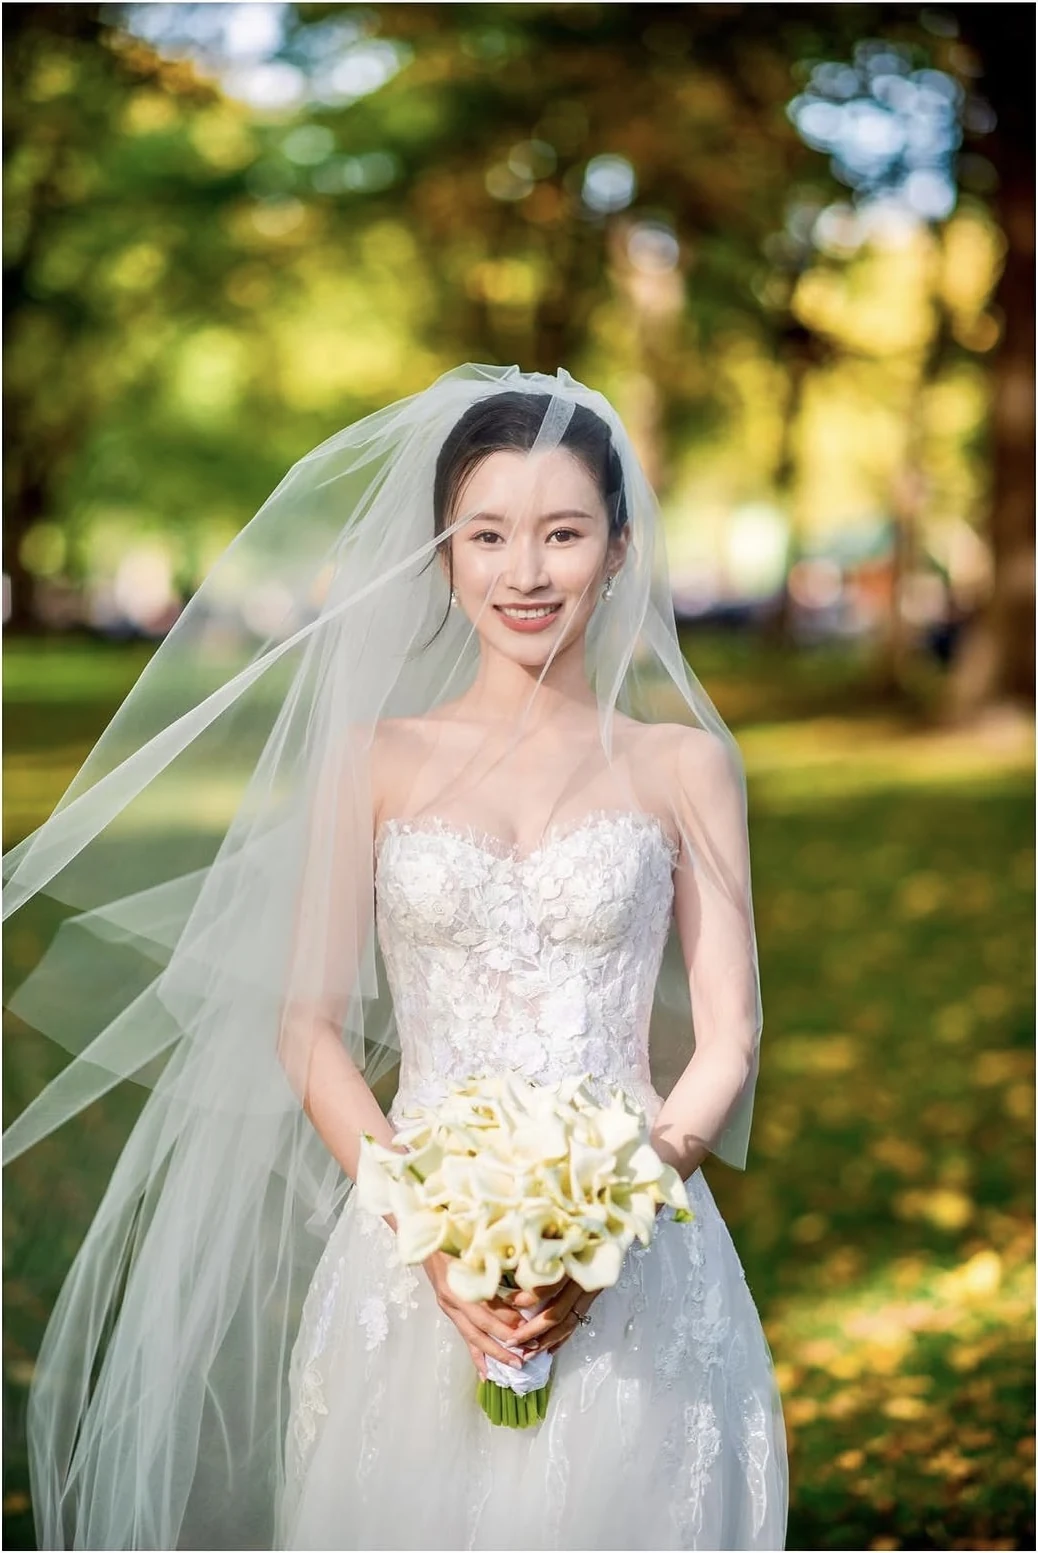
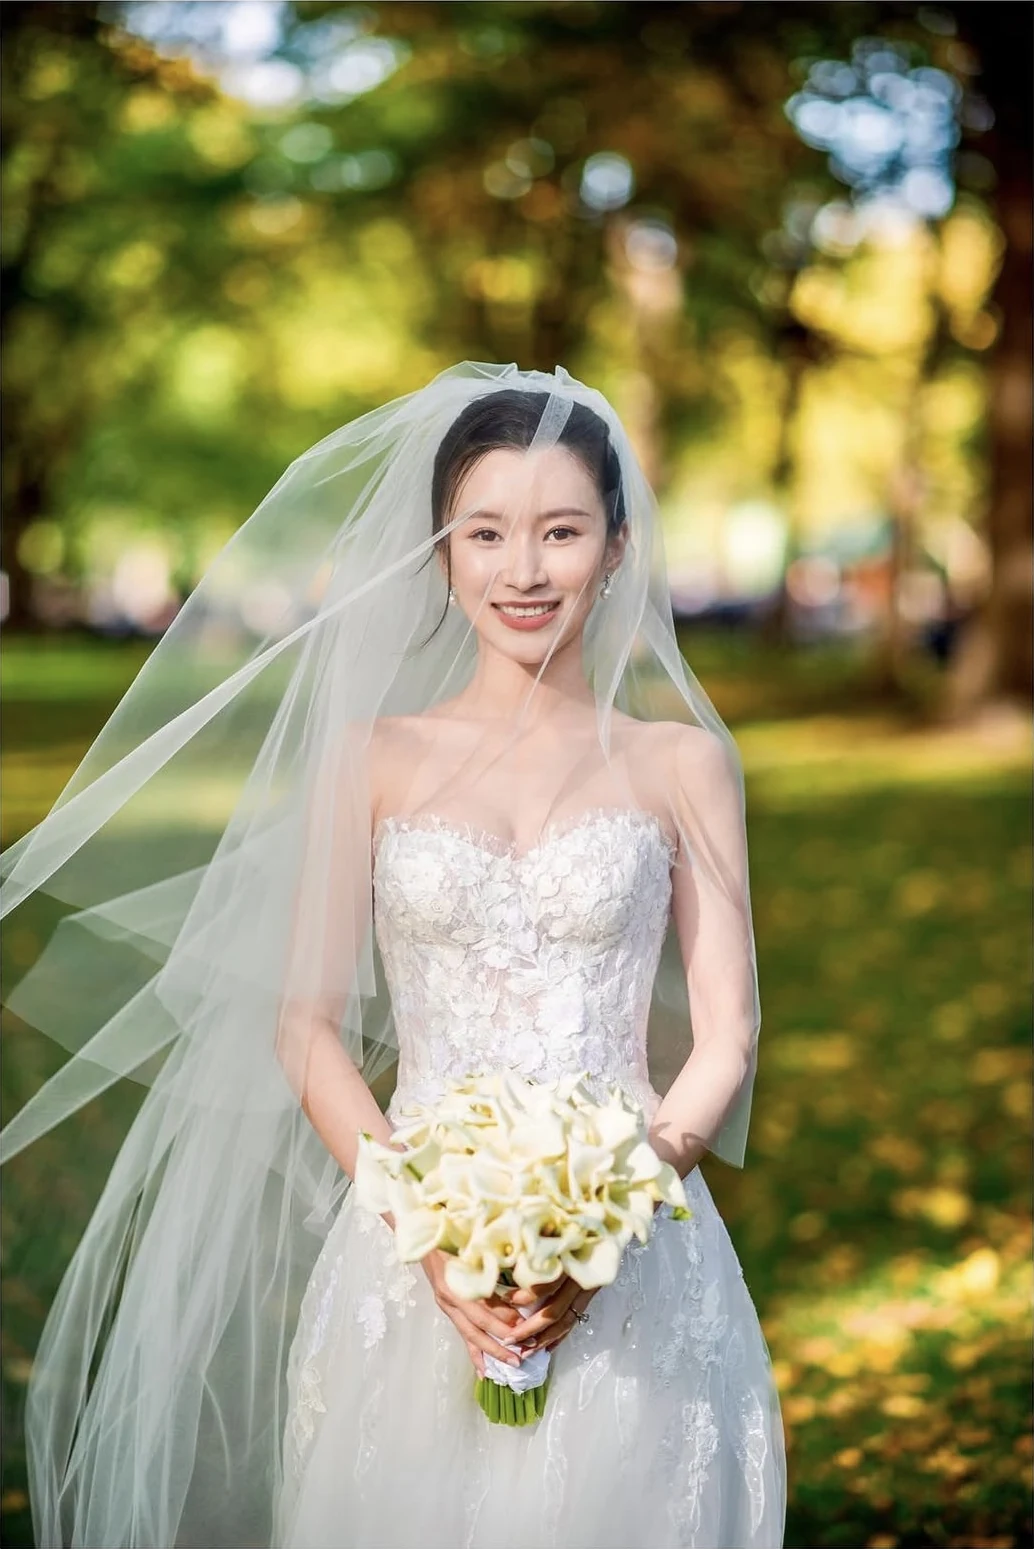
Remove white edge from After Dark hero image

diff --git a/index.html b/index.html
@@ -320,7 +320,7 @@
       </div>
     </div>
     <div>
-      <div class="photo arch-top"><img src="assets/images/garden-bride-hero.webp" alt="Bride outdoors in a veil holding white calla lilies" width="1038" height="1553" loading="eager" decoding="async" fetchpriority="high" style="object-position:50% 35%"></div>
+      <div class="photo arch-top"><img src="assets/images/garden-bride-hero.webp?v=20260930-edge" alt="Bride outdoors in a veil holding white calla lilies" width="1034" height="1549" loading="eager" decoding="async" fetchpriority="high" style="object-position:50% 35%"></div>
     </div>
   </div>
 </section>

diff --git a/WORK_LOG.md b/WORK_LOG.md
@@ -4,6 +4,8 @@
 
 ## 2026-09-30
 
+- 去除 After Dark Hero 图片源文件左侧残留的白色像素线，同时清理其余边缘并为图片地址增加版本参数；保持人物构图和颜色不变。
+
 - 复查 After Dark Hero 线上效果后，进一步移除压暗图片的渐变遮罩及悬停缩放，并为样式表增加版本参数强制浏览器更新；Hero 现在始终直接显示原图。
 
 - 关闭 After Dark 首页 Hero 的灰度、复古色调及悬停暖色滤镜，所有状态均显示原图颜色；检查鼠标移入前后滤镜一致。
